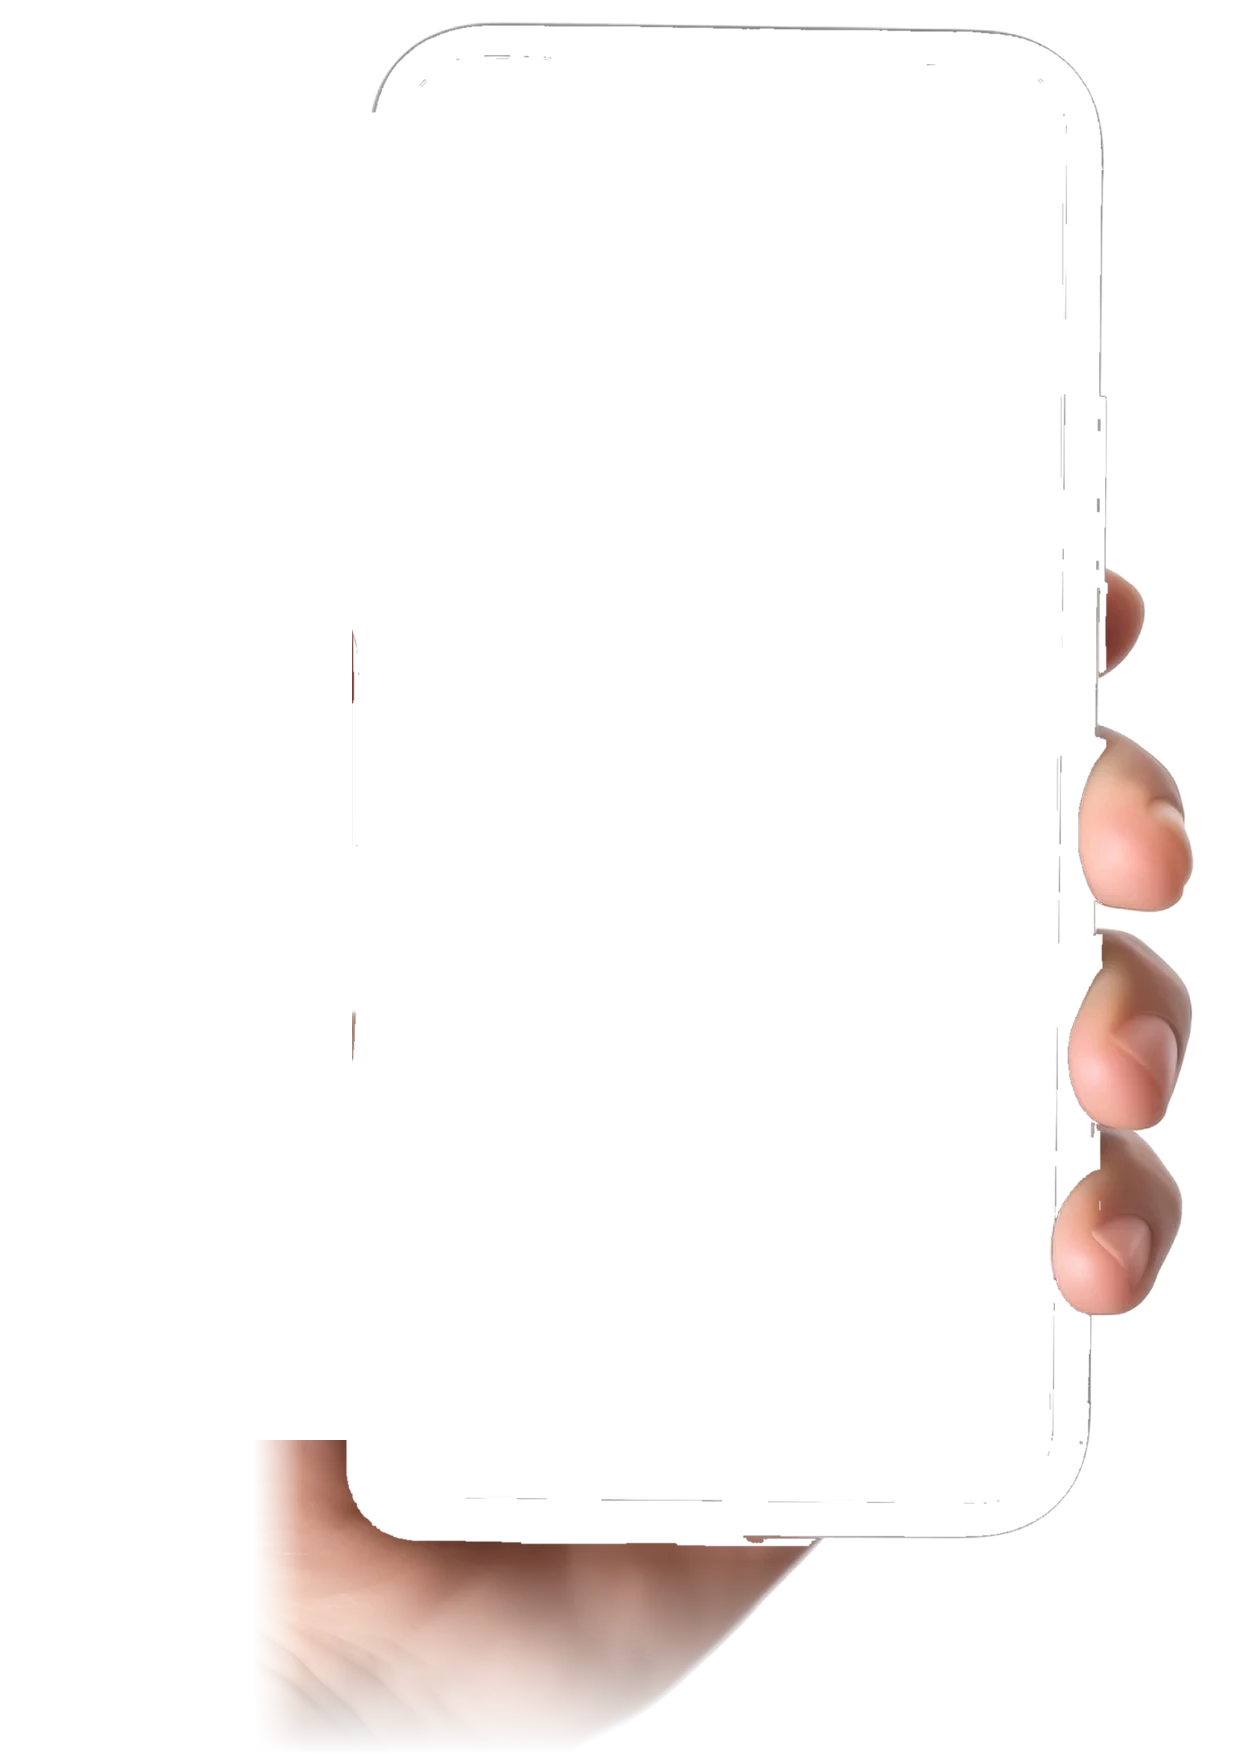
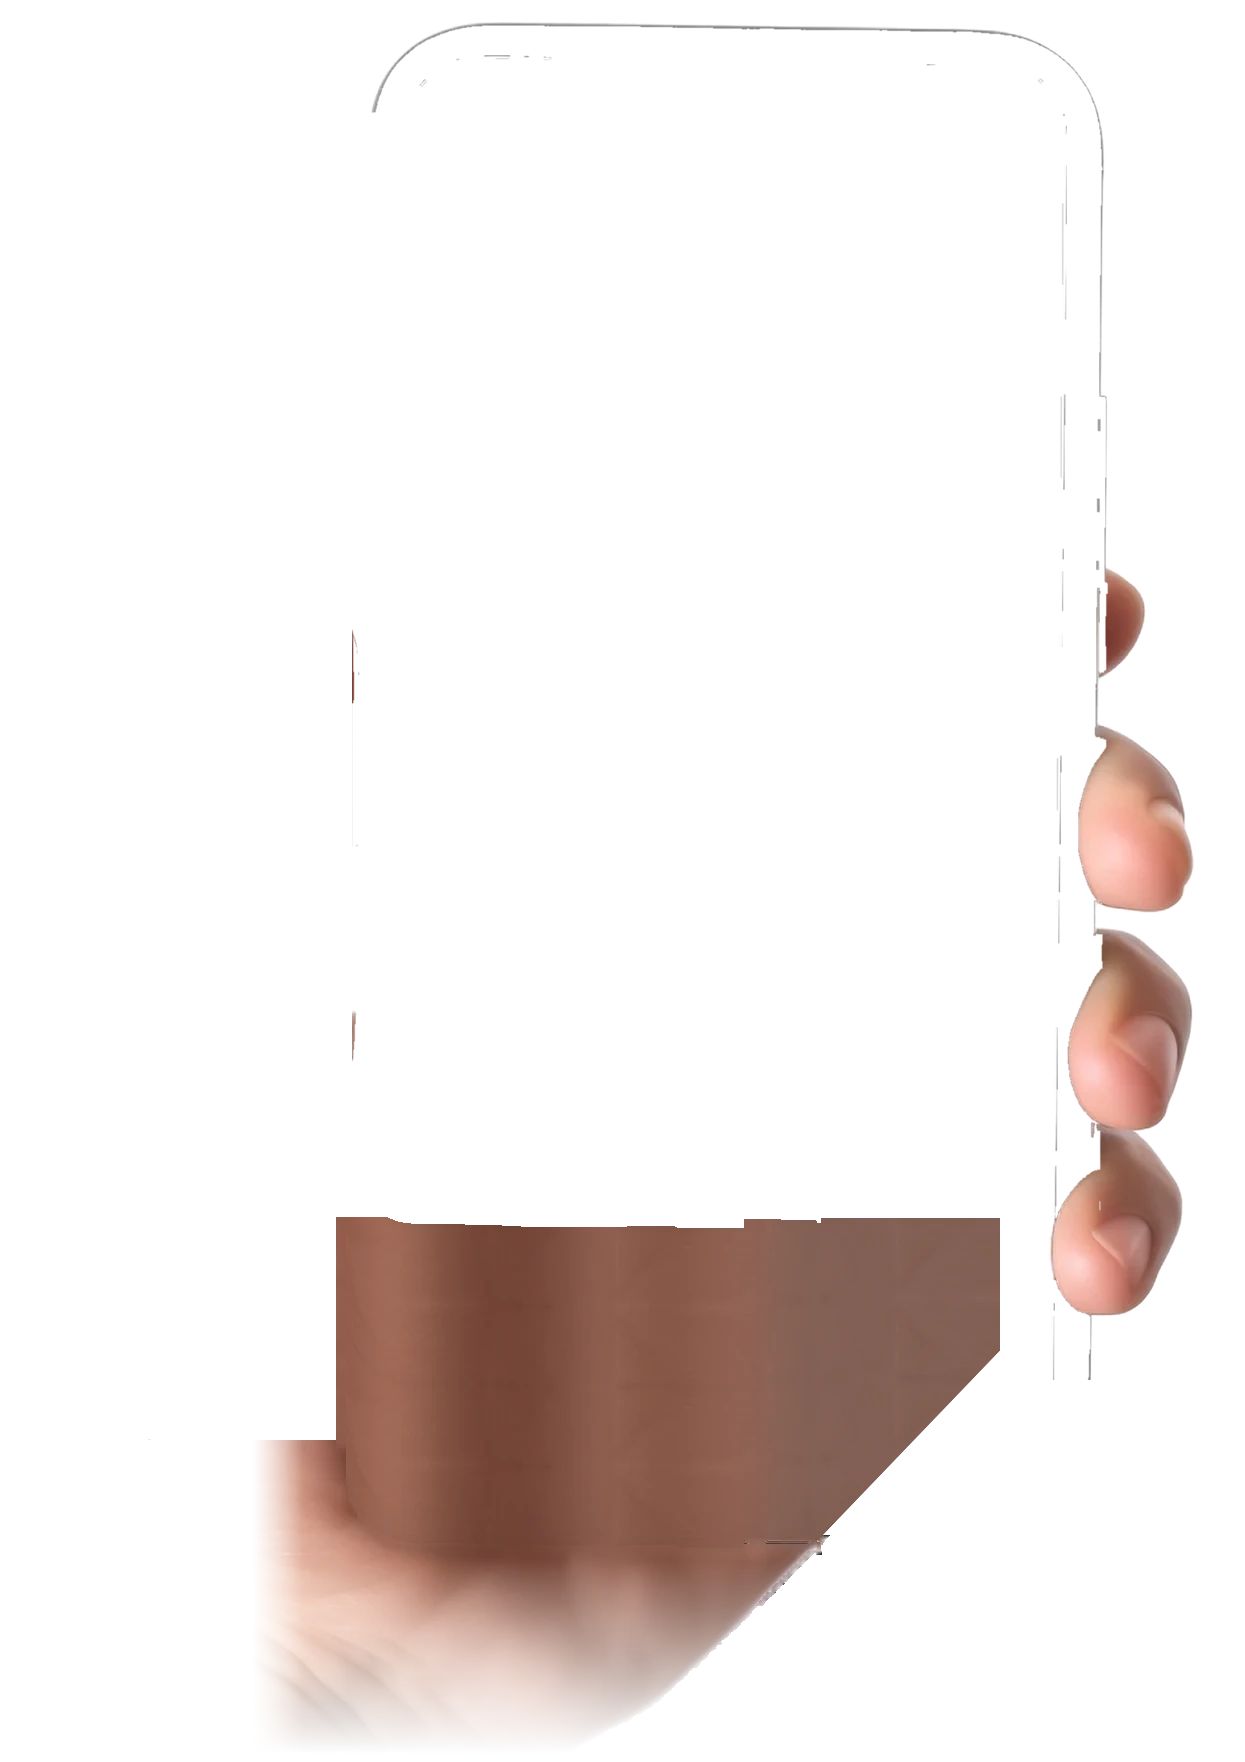
Thumb keeps its length: for near keys the whole hand slides down the phone (a grip shift) instead of the thumb stretching

Changed region(s): [[0.2442, 0.6867, 0.8241, 0.9052]]

diff --git a/hand.js b/hand.js
@@ -10,6 +10,10 @@
   // ---- Photo geometry, in pixels of the 1245x1762 layers ----
   var IMG_W = 1245, IMG_H = 1762;
   var SCREEN = { tl: [406.7, 57.0], tr: [1066.1, 68.3], br: [1049.7, 1503.0], bl: [390.0, 1495.0] };
+  // The phone's lower body: the palm is behind it, so when the grip slides down, the palm (drawn on
+  // in the palm layer where the photo has it hidden) shows only below this outline
+  var PHONE_LOW = [[352, 1100], [352, 1497], [360, 1508], [385, 1529], [410, 1536], [460, 1537], [560, 1540], [685, 1541],
+                   [785, 1542], [810, 1540], [835, 1532], [985, 1532], [1010, 1527], [1035, 1517], [1060, 1497], [1085, 1447], [1100, 1360], [1045, 1340], [1045, 1100]];
   var HAND_BOX = [0, 560, 372, 1762];        // the moving piece: the thumb and the ball of the hand, down to the wrist (a little past the
                                              // phone's edge, where the thumb's rounded pad is drawn in: the photo hides it behind the phone)
   var PIVOT = [320, 1215];                   // where the thumb swings from: its base knuckle, on the web side, where it leaves the palm (the palm keeps holding the phone)
@@ -24,17 +28,17 @@
   var ROOT = [-0.12, 0.12], MCP = 0.08, IP = 0.5, HINGE = { mcp: 0.09, ip: 0.06 };
   // For a nearer key the thumb bends (flexes) at both knuckles: up to BEND.max radians in all, the
   // last knuckle taking most of it, the way a thumb curls its tip onto a key.
-  var BEND = { mcp: 0.3, ip: 0.7, max: 2.4 };
+  var BEND = { mcp: 0.35, ip: 0.65, max: 1.0 };
   // Much of a real knuckle's bend goes down toward the glass, not sideways: the fingertip tips
   // onto the screen, so seen from the front just the last segment (and a little of the one before)
   // looks shorter. FLAT is the share of the bend that shows sideways; TIP how much shorter each
   // segment looks per radian of bend.
-  var FLAT = 0.4, TIP = { prox: 0.15, dist: 0.2 };
-  // A real thumb is stiff: for a key close to its base it doesn't curl, it lies across the screen
-  // and presses with its pad, the tip reaching on past the key. PRESS is how far back from the tip
-  // the contact can slide (px along the thumb) and what share of the missing reach it takes; the
-  // knuckles bend only for the rest.
-  var PRESS = { max: 200, share: 0.85 };
+  var FLAT = 1, TIP = { prox: 0, dist: 0 };
+  // A real thumb keeps its length and barely bends: for a key close to its base the rest of the hand
+  // makes room instead, the whole hand sliding down along the phone as one piece (a grip shift, up
+  // to SLIDE px, about a centimetre), so the thumb reaches it with no more than about half its bend. PRESS lets the
+  // contact sit a little behind the very tip, on the pad.
+  var SLIDE = 110, PRESS = { max: 40, share: 0.5 };
   // How far each side of the axis the flesh reaches (outer side toward the edge of the hand, inner
   // side toward the phone), by length fraction.
   var BAND = { u: [0.05, 0.3, 0.5, 0.75, 0.95], outer: [-125, -120, -115, -80, -45], inner: [82, 70, 64, 58, 50] };
@@ -129,6 +133,7 @@
   }
   function wrapAngle(a) { while (a > Math.PI) a -= 2 * Math.PI; while (a < -Math.PI) a += 2 * Math.PI; return a; }
   var STRAIGHT = dist(touchAt(0, 0, 0), PIVOT);   // the tip's reach with the thumb straight
+  var EASY = dist(touchAt(0, BEND.max * 0.55, PRESS.max), PIVOT);   // its reach, comfortably bent
 
   // Turn and bend so the contact lands on the target: for a nearer key the contact slides back
   // from the tip onto the pad, then the knuckles bend just enough for what's left (a farther key
@@ -136,6 +141,10 @@
   function thumbPose(p) {
     var tg = onScreen(p.x, p.y);
     tg = [tg[0] - p.lift * 4, tg[1] - p.lift * 8];
+    // how far the hand slides down so the key is a comfortable reach, then work in the hand's own frame
+    var dx = tg[0] - PIVOT[0], slide = 0;
+    if (EASY > Math.abs(dx)) slide = clamp(Math.sqrt(EASY * EASY - dx * dx) - (PIVOT[1] - tg[1]), 0, SLIDE);
+    tg = [tg[0], tg[1] - slide];
     var dw = dist(tg, PIVOT);
     var back = clamp(PRESS.share * (STRAIGHT - dw), 0, PRESS.max), bend = 0;
     if (dist(touchAt(0, 0, back), PIVOT) > dw) {
@@ -145,7 +154,7 @@
     var tp = touchAt(0, bend, back);
     var turn = wrapAngle(Math.atan2(tg[1] - PIVOT[1], tg[0] - PIVOT[0]) - Math.atan2(tp[1] - PIVOT[1], tp[0] - PIVOT[0]));
     var k = 1 - p.rest;
-    return { turn: turn * k, bend: bend * k, back: back * k, shift: [0, 0], over: k, lift: p.lift, target: tg };
+    return { turn: turn * k, bend: bend * k, back: back * k, slide: slide * k, shift: [0, 0], over: k, lift: p.lift, target: tg };
   }
 
 
@@ -351,14 +360,20 @@
       var all = [0, IMG_W, 0, IMG_H];
       // the rest of the hand (the heel under the phone, the fingers), untouched
       warper.clear();
-      warper.drawStill(palmTex, [0, 0, IMG_W, IMG_H], all, false, s, [ox, 0]);
+      var hand = [ox, q.slide * s];   // the whole hand, slid down the phone for a near key
+      warper.drawStill(palmTex, [0, 0, IMG_W, IMG_H], all, false, s, hand);
+      ctx.save();
+      ctx.beginPath(); ctx.rect(0, 0, canvas.width, canvas.height);
+      PHONE_LOW.forEach(function (c, j) { ctx[j ? "lineTo" : "moveTo"](c[0] * s + ox, c[1] * s); });
+      ctx.closePath(); ctx.clip("evenodd");   // the phone stays in front of the palm
       ctx.drawImage(warper.canvas, 0, 0);
+      ctx.restore();
       // the thumb and the ball of the hand on top, with a soft shadow on the glass only: close and
       // dark when touching, wider and fainter when raised
       warper.clear();
       warper.positions(pos);
       // (it may move past the photo's own edges, so nothing of it is cut off there)
-      warper.draw(thumbTex, [HAND_BOX[0], HAND_BOX[1], HAND_BOX[2] - HAND_BOX[0], HAND_BOX[3] - HAND_BOX[1]], [-IMG_W, 2 * IMG_W, -IMG_H, 2 * IMG_H], false, s, [ox, 0]);
+      warper.draw(thumbTex, [HAND_BOX[0], HAND_BOX[1], HAND_BOX[2] - HAND_BOX[0], HAND_BOX[3] - HAND_BOX[1]], [-IMG_W, 2 * IMG_W, -IMG_H, 2 * IMG_H], false, s, hand);
       if (q.over > 0.01) {
         ctx.save();
         ctx.beginPath();

diff --git a/index.html b/index.html
@@ -60,7 +60,7 @@
       <video src="video/request-flow.mp4?v=6" poster="video/request-flow.jpg?v=5" width="604" height="1312" autoplay muted playsinline preload="auto" aria-label="A short video of someone holding an iPhone and requesting an office in OfficeSwap with their thumb: they tap Request an Office, pick Tuesday and Wednesday, and get an office for both days."></video>
       <img class="hold-phone" src="images/hand/phone.webp?v=5" alt="" width="1245" height="1762">
       <img class="hold-still" src="images/hand/handhold.webp?v=14" alt="" width="1245" height="1762">
-      <canvas class="hold-hand" aria-hidden="true" data-thumb="images/hand/thumb.webp?v=13" data-palm="images/hand/palm.webp?v=13"></canvas>
+      <canvas class="hold-hand" aria-hidden="true" data-thumb="images/hand/thumb.webp?v=14" data-palm="images/hand/palm.webp?v=14"></canvas>
     </div>
     <button type="button" class="replay" hidden aria-label="Play the video again"><svg viewBox="0 0 24 24" fill="none" stroke="currentColor" stroke-width="2" stroke-linecap="round" stroke-linejoin="round" aria-hidden="true"><path d="M3.5 12a8.5 8.5 0 1 0 2.6-6.1"/><path d="M3.5 4v4.5H8"/></svg></button>
   </div>
@@ -256,7 +256,7 @@
       <video src="video/request-flow.mp4?v=6" poster="video/request-flow.jpg?v=5" width="604" height="1312" muted playsinline preload="metadata" data-play="in-view" aria-label="The same short video: someone holding an iPhone and requesting an office in OfficeSwap with their thumb: they tap Request an Office, pick Tuesday and Wednesday, and get an office for both days."></video>
       <img class="hold-phone" src="images/hand/phone.webp?v=5" alt="" width="1245" height="1762">
       <img class="hold-still" src="images/hand/handhold.webp?v=14" alt="" width="1245" height="1762">
-      <canvas class="hold-hand" aria-hidden="true" data-thumb="images/hand/thumb.webp?v=13" data-palm="images/hand/palm.webp?v=13"></canvas>
+      <canvas class="hold-hand" aria-hidden="true" data-thumb="images/hand/thumb.webp?v=14" data-palm="images/hand/palm.webp?v=14"></canvas>
     </div>
     <button type="button" class="replay" hidden aria-label="Play the video again"><svg viewBox="0 0 24 24" fill="none" stroke="currentColor" stroke-width="2" stroke-linecap="round" stroke-linejoin="round" aria-hidden="true"><path d="M3.5 12a8.5 8.5 0 1 0 2.6-6.1"/><path d="M3.5 4v4.5H8"/></svg></button>
   </div>
@@ -589,6 +589,6 @@
     document.addEventListener("click", function (e) { if (m.open && !m.contains(e.target)) m.removeAttribute("open"); });
   })();
 </script>
-<script src="hand.js?v=34" defer></script>
+<script src="hand.js?v=35" defer></script>
 </body>
 </html>
